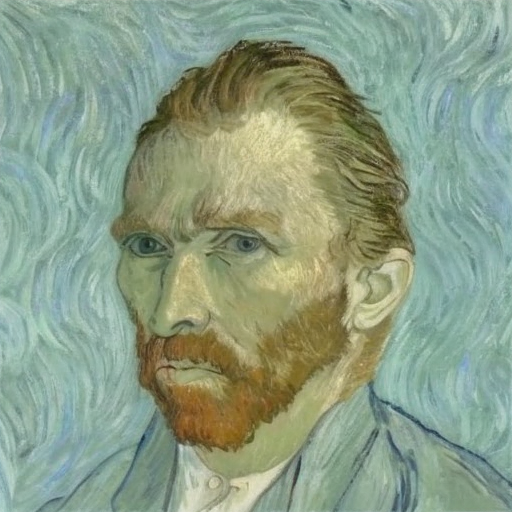
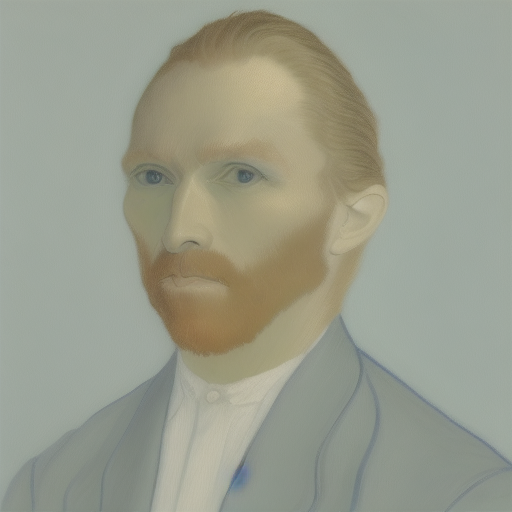
initial run with lcm-lora on top, weird results in beginning of sched

diff --git a/main_lcm.py b/main_lcm.py
@@ -8,9 +8,16 @@ from model import DiffMorpherPipeline
 
 parser = ArgumentParser()
 parser.add_argument(
-    "--model_path", type=str, default="stabilityai/stable-diffusion-2-1-base",
+    "--model_path", type=str, default="lykon/dreamshaper-7",
     help="Pretrained model to use (default: %(default)s)"
 )
+# Available SDV1-5 versions (all have lcm-lora support): 
+# sd-legacy/stable-diffusion-v1-5
+# lykon/dreamshaper-7
+# "runwayml/stable-diffusion-v1-5"
+
+# Original DiffMorpher SD (no lcm-lora support): 
+# stabilityai/stable-diffusion-2-1-base
 parser.add_argument(
     "--image_path_0", type=str, default="",
     help="Path of the first image (default: %(default)s)"
@@ -71,7 +78,8 @@ if args.use_lcm:
     pipeline.load_lora_weights("latent-consistency/lcm-lora-sdv1-5")
     # Optionally, if you want to enforce a lower number of inference steps:
     lcm_inference_steps = 8  # recommended as per technical report
-    pipeline.scheduler.set_timesteps(lcm_inference_steps)
+    pipeline.scheduler.set_timesteps(lcm_inference_steps)   
+
 
 # Run the pipeline inference using your existing parameters
 images = pipeline(
